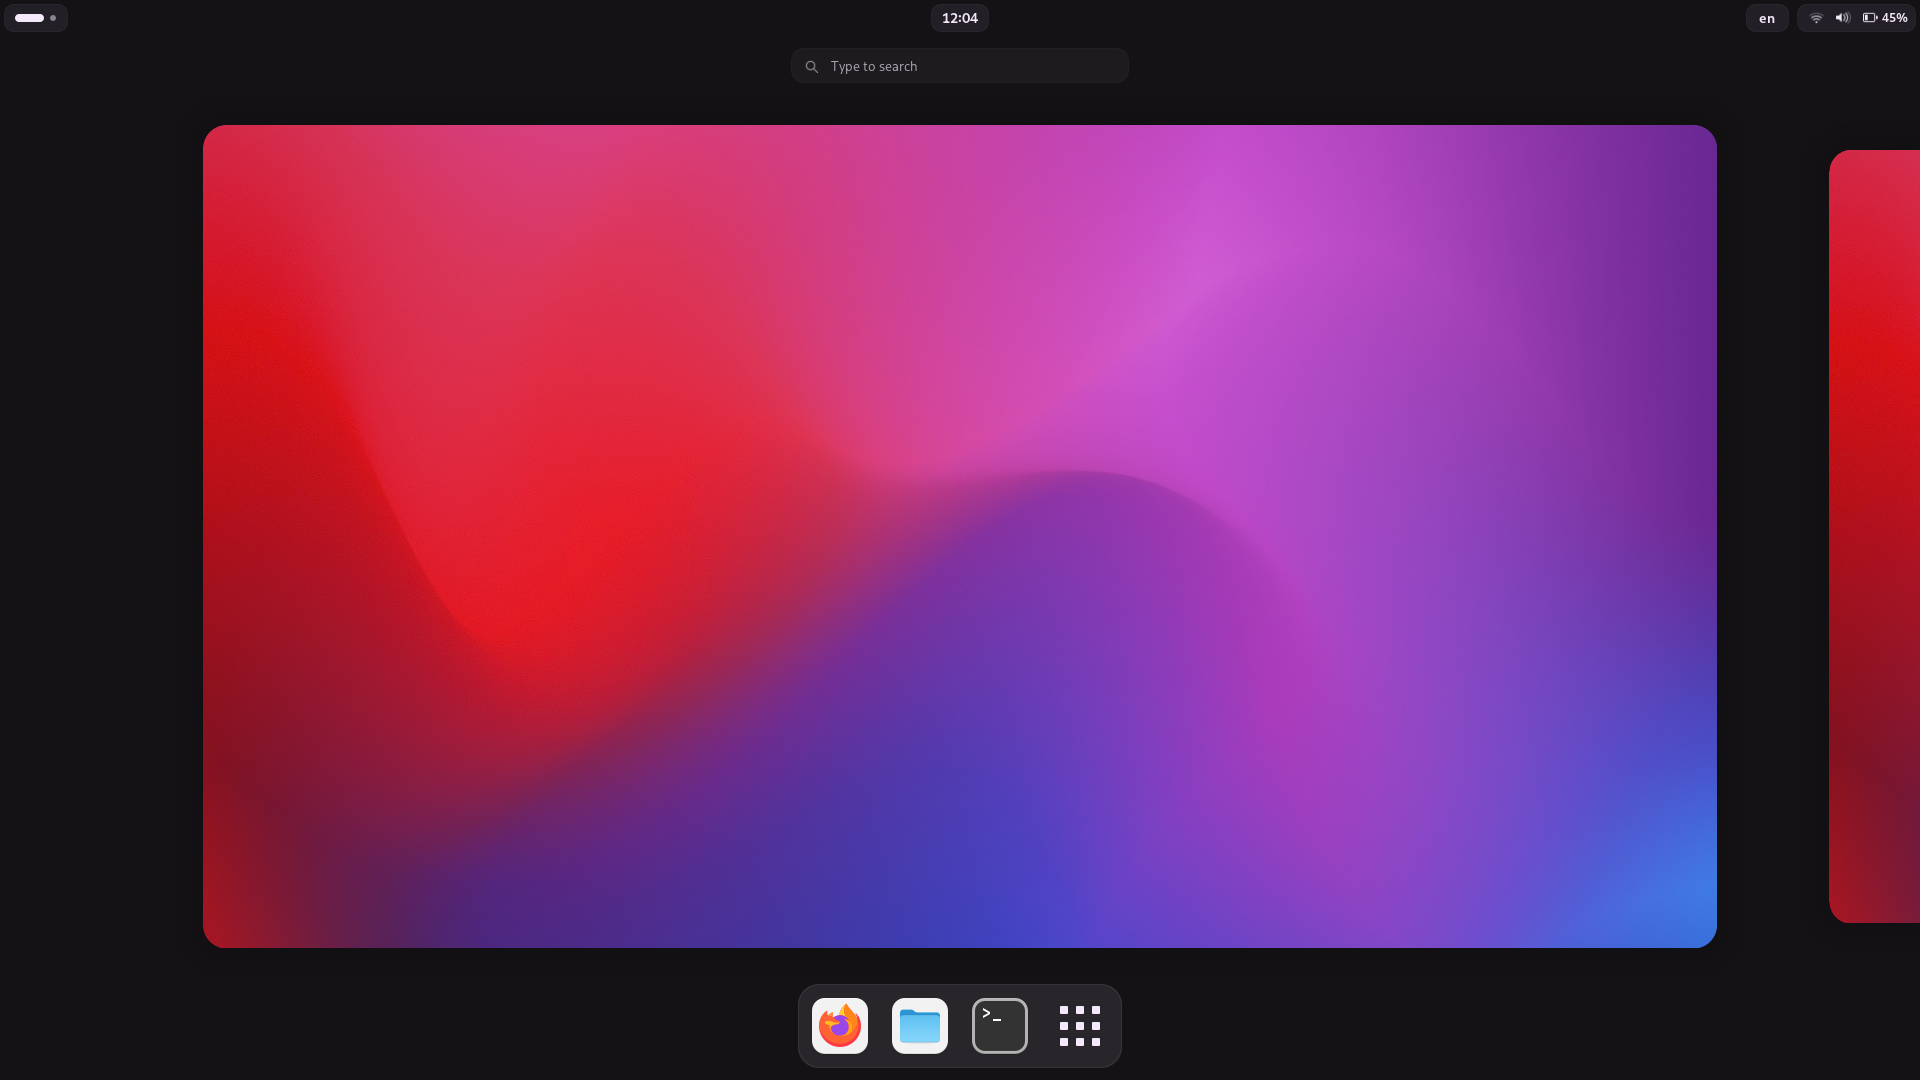
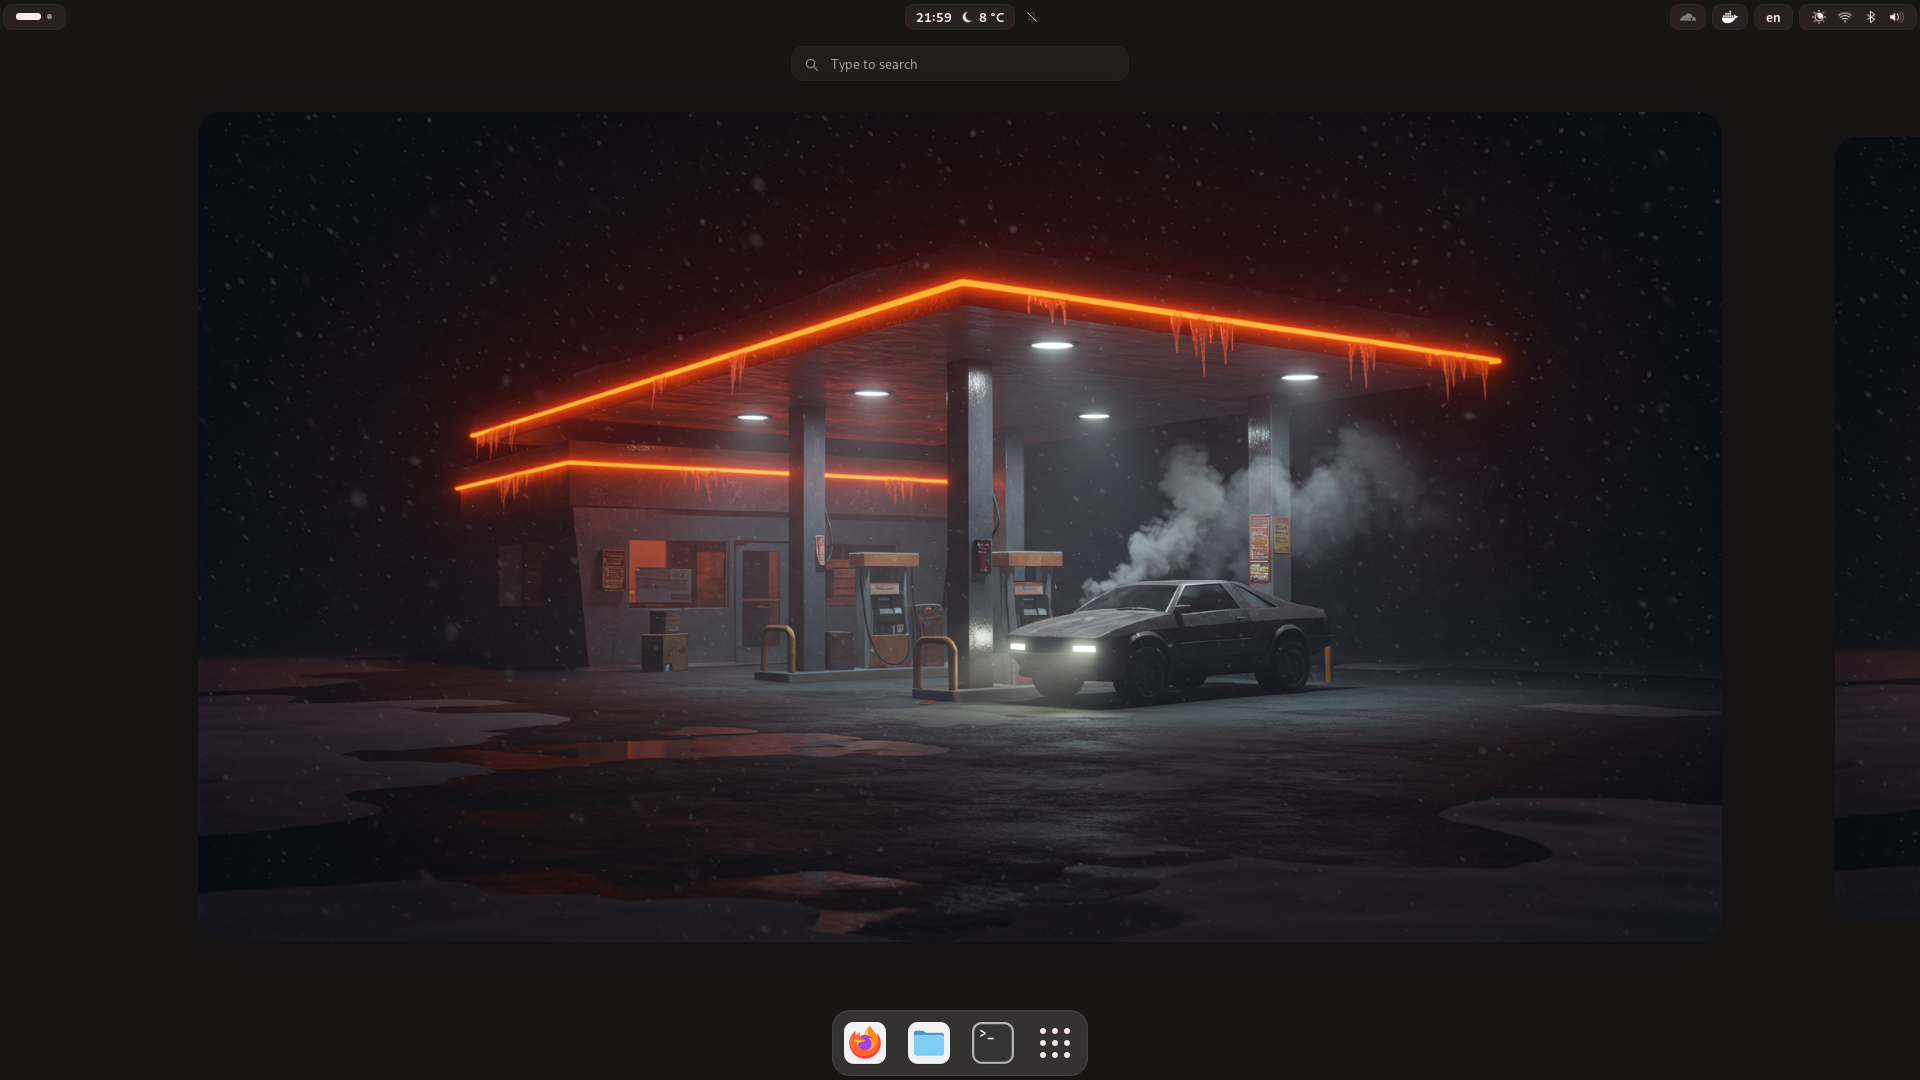
Updated images

diff --git a/README.md b/README.md
@@ -14,7 +14,7 @@ Shell theme for GNOME DE. Based on https://www.pling.com/p/1939902/.
 <details><summary>Click me 🐈</summary>
 
 Icon theme: https://github.com/vinceliuice/Colloid-icon-theme
-#### Overview [[Blur My Shell](https://extensions.gnome.org/extension/3193/blur-my-shell/) / Light / Dark] ([Amber](https://gitlab.gnome.org/GNOME/gnome-backgrounds/-/tree/46.0/backgrounds?ref_type=tags))
+#### Overview [[Blur My Shell](https://extensions.gnome.org/extension/3193/blur-my-shell/) / Light / Dark] ([Neon Gas Station](https://www.heroscreen.cc/2025/03/neon-gas-station-4k-wallpaper.html))
 ![Overview with Blur My Shell](./readme-images/overview_blur-my-shell.png?raw=true "Overview with Blur My Shell")
 ![Overview in light mode](./readme-images/overview_light.png?raw=true "Overview in light mode")
 ![Overview in dark mode](./readme-images/overview_dark.png?raw=true "Overview in dark mode")
@@ -26,8 +26,8 @@ Icon theme: https://github.com/vinceliuice/Colloid-icon-theme
 
 #### Modal dialog ([Wide Angle Photography of Mountain](https://www.pexels.com/photo/wide-angle-photography-of-mountain-1612559/))
 ![Modal dialog look](./readme-images/modal.png?raw=true "Modal dialog look")
-#### Calendar & notifications ([Sand Dunes](https://4kwallpapers.com/nature/sand-dunes-desert-landscape-evening-windows-10x-microsoft-3287.html))
-![Calendar & notifications look](./readme-images/datemenu.jpg?raw=true)
+#### Calendar & notifications ([Neon Gas Station](https://www.heroscreen.cc/2025/03/neon-gas-station-4k-wallpaper.html))
+![Calendar & notifications look](./readme-images/datemenu.png?raw=true)
 
 #### Dash ([Dash To Dock](https://extensions.gnome.org/extension/307/dash-to-dock/ "Dash To Dock"))
 - Position and size:
@@ -77,7 +77,7 @@ Icon theme: https://github.com/vinceliuice/Colloid-icon-theme
 
 See the [installation tweaks](#-installation-tweaks) section for more information.
 
-If you want to remove the theme, see the [uninstallation](#-uninstallation--reinstallation) section.
+If you want to remove the theme, see the [uninstallation](#%EF%B8%8F-uninstallation--reinstallation) section.
 
 ## 🖥 GDM theme
 
